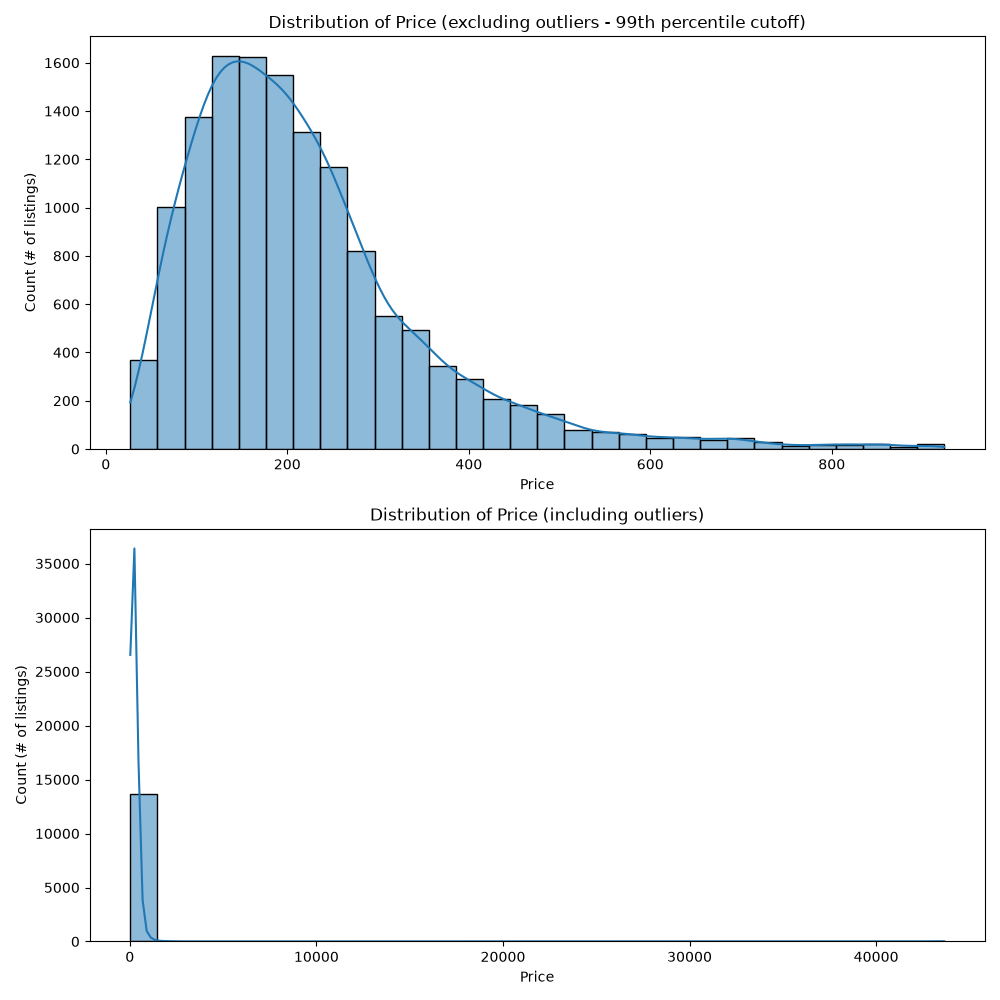
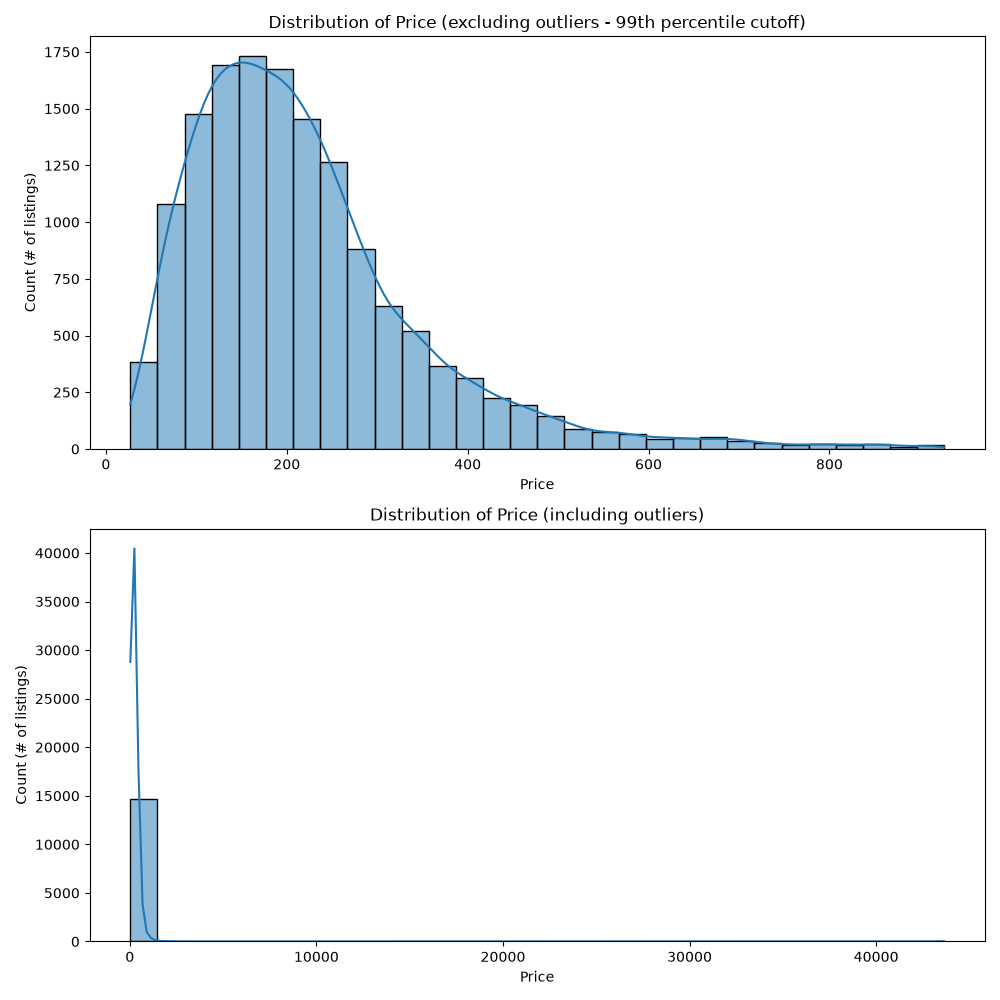
Made changes to filenames variables on main and wrangling files for CSV loading files

diff --git a/code/wrangling.py b/code/wrangling.py
@@ -18,7 +18,7 @@ def read_csv_files(filenames, filepath: str = None):
         if filepath[-1] == "\\":
             filepath = filepath[:-1]  #Remove slash from the end to avoid double-ups
         filepath = filepath.strip()    #Remove trailing whitespace
-        filename = [filepath + "\\" + os.path.basename(filename) for filename in filenames] # Combine the file path & name
+        filenames = [filepath + "\\" + os.path.basename(filename) for filename in filenames] # Combine the file path & name
     print("\nLoading Files...", end="")
     
     # Generate a list of dataframes based on the files
@@ -61,7 +61,6 @@ def cleaning_drop_col(df, target_columns):
 
 def cleaning_str_to_date(df, target_columns):
     '''Convert strings to datetime'''
-    
     for col in target_columns:
         df[col] = pd.to_datetime(df[col], format='%Y-%m-%d')    #Dates in the AirBnB 'listings' files look like "2026-03-20" and "2025-12-06"
     print(f" Converted {len(target_columns)} columns from string to datetime: {target_columns}")
@@ -161,12 +160,12 @@ def convert_categoricals(df):
             df[var_name] = df[var_name].astype("category")
             columns_affected['nominal'].append(var_name)
     num_variables = len(conversion_variables.keys())
-    print(f'Converted {num_variables} variable{'s' if num_variables > 1 else ""} to ordinal {columns_affected['ordinal']} or nominal {columns_affected['nominal']} categorical type.')
+    print(f"Converted {num_variables} variable{'s' if num_variables > 1 else ''} to ordinal {columns_affected['ordinal']} or nominal {columns_affected['nominal']} categorical type.")
     return df
 
 
 def clean_rental(df, df2):
-    '''Cleans rental bond dataset, filters data for only Christchurch City, matched datat to Airbnb dataset'''
+    '''Cleans rental bond dataset, filters data for only Christchurch City, matched data to Airbnb dataset'''
 
     #drop all Location Id = NULL
     df = df.dropna(subset=['Location Id'])

diff --git a/code/main.py b/code/main.py
@@ -97,7 +97,7 @@ def main():
     Asks user for input and returns requested graphs, statistics, tables or ends the program. 
     '''
     # Load the file
-    df_airbnb = wr.read_csv_files(filenames=[os.path.join(input_path, "airbnb", filename) for filename in airbnb_data])    #Import & merge multiple files
+    df_airbnb = wr.read_csv_files(filenames=airbnb_data)    #Import & merge multiple files
     df_rental = wr.read_bond_file(os.path.join(input_path, "tenancy", rental_data), ",") 
     df_sa2    = wr.read_bond_file(os.path.join(input_path, "tenancy", sa2_data), ",")
 
